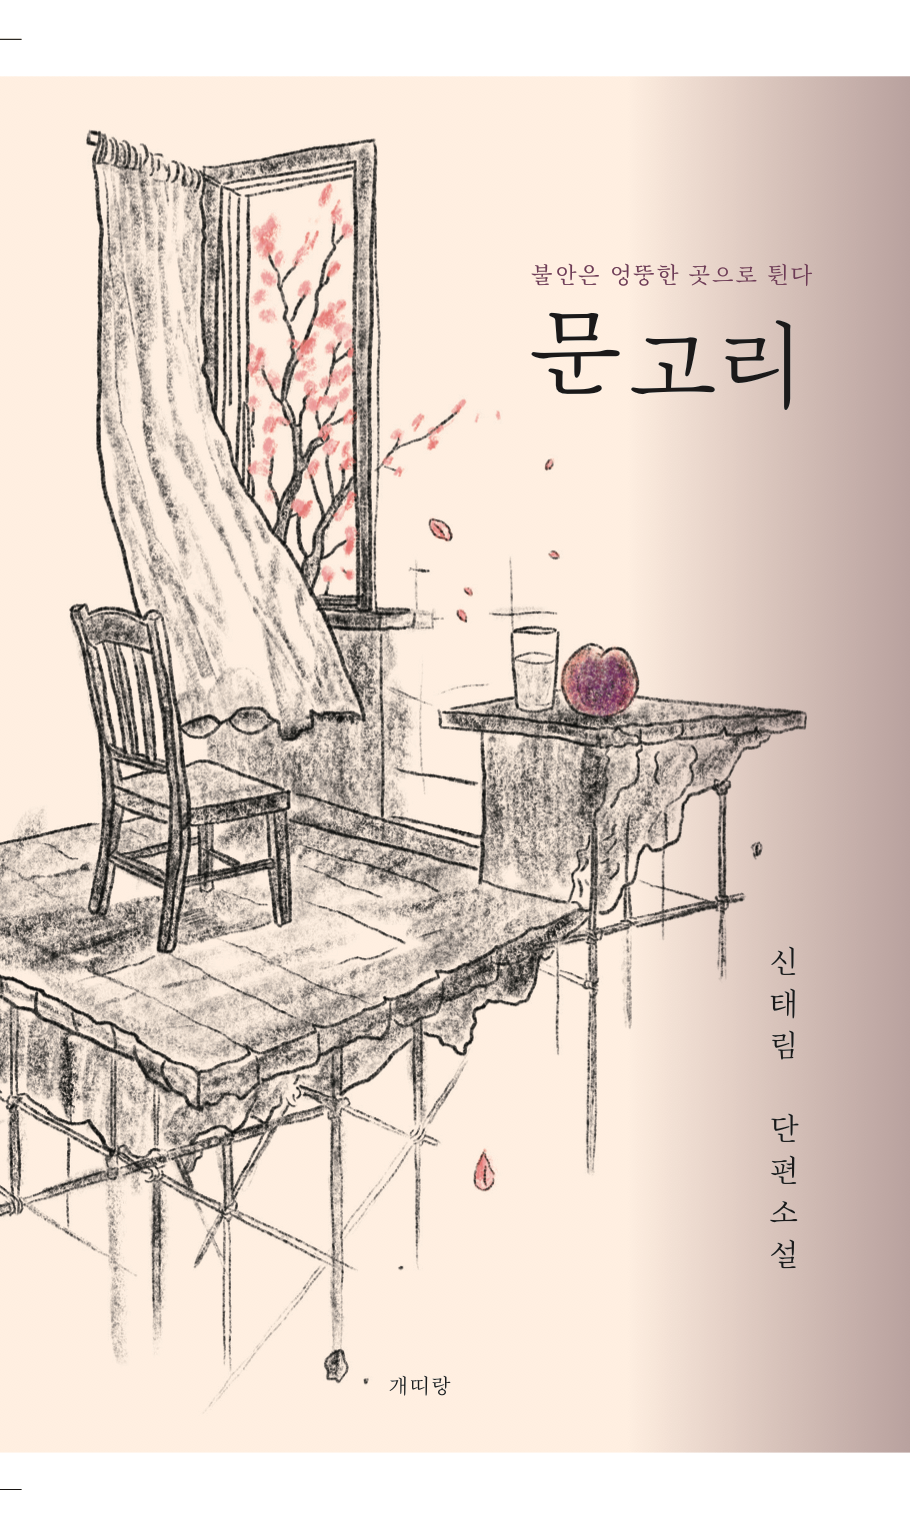
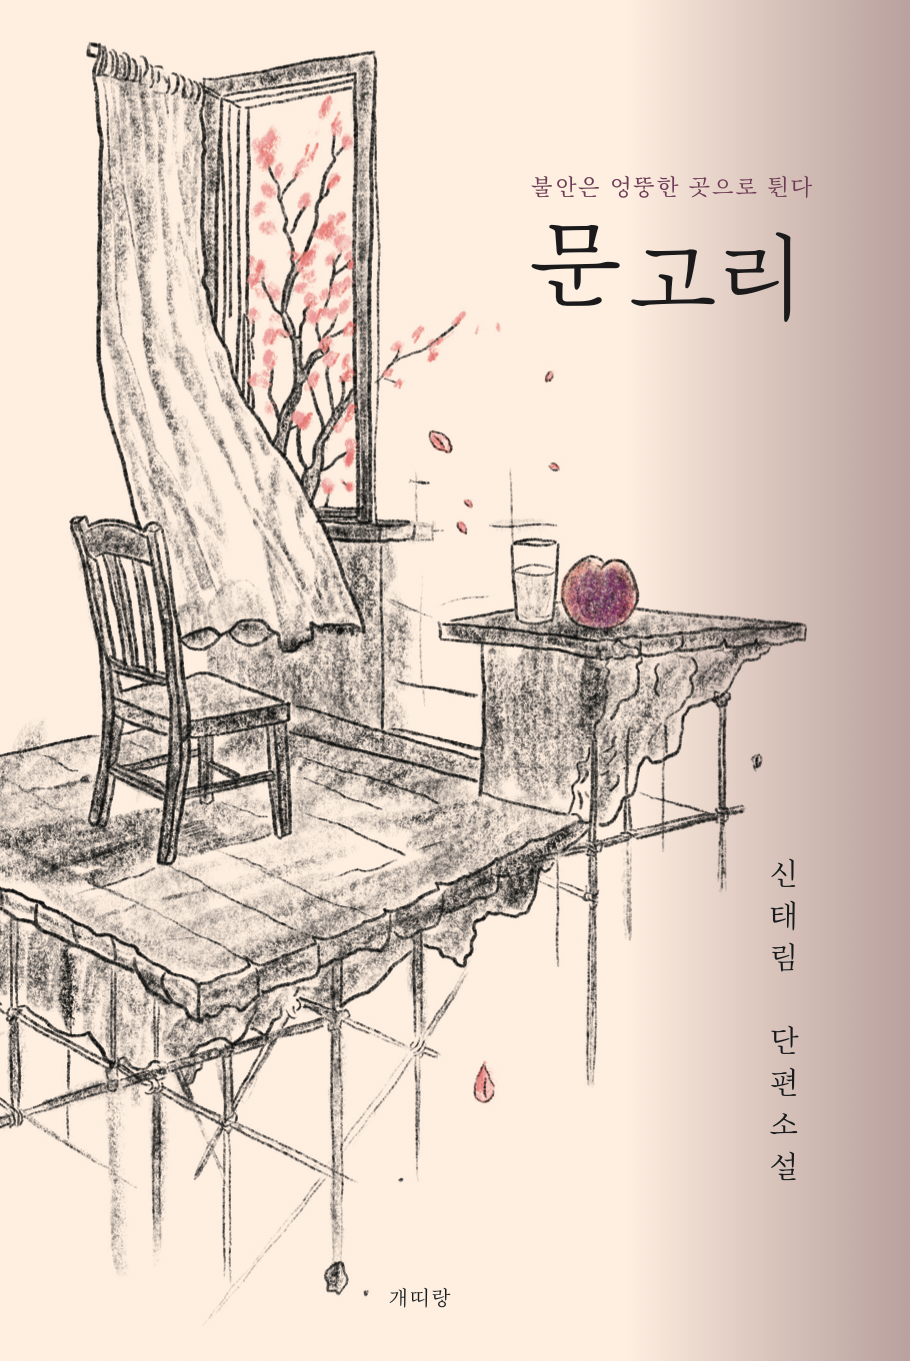
문고리 표지 이미지 상하 여백 제거 및 비율 재조정
크롭 마크 기준으로 확인한 실제 트림 라인(y=88~1449)에 맞춰
앞표지/뒤표지/책등 이미지의 위아래 흰 여백을 제거. 3D 책 모델
치수도 새 비율(약 0.67)에 맞게 재조정.

diff --git a/index.html b/index.html
@@ -169,16 +169,16 @@ flex-wrap: wrap;
 .mg-cta-btn { background: #F26D4F; color: #fff; font-weight: 800; font-size: 17px; padding: 16px 38px; border-radius: 50px; box-shadow: 0 8px 0 rgba(0,0,0,0.2); transition: 0.1s; }
 .mg-cta-btn:active { transform: translateY(8px); box-shadow: none; }
 
-.mg-book-stage { position: relative; z-index: 2; flex-shrink: 0; width: 340px; height: 500px; display: flex; align-items: center; justify-content: center; perspective: 1400px; }
-.mg-book-spin { position: relative; width: 280px; height: 467px; transform-style: preserve-3d; animation: mgSpin 9s linear infinite; }
-.mg-book-face { position: absolute; top: 0; left: 0; width: 280px; height: 467px; border-radius: 4px; box-shadow: 0 20px 60px rgba(0,0,0,0.4); backface-visibility: hidden; overflow: hidden; }
-.mg-face-front { transform: translateZ(14px); }
+.mg-book-stage { position: relative; z-index: 2; flex-shrink: 0; width: 360px; height: 480px; display: flex; align-items: center; justify-content: center; perspective: 1400px; }
+.mg-book-spin { position: relative; width: 300px; height: 445px; transform-style: preserve-3d; animation: mgSpin 9s linear infinite; }
+.mg-book-face { position: absolute; top: 0; left: 0; width: 300px; height: 445px; border-radius: 4px; box-shadow: 0 20px 60px rgba(0,0,0,0.4); backface-visibility: hidden; overflow: hidden; }
+.mg-face-front { transform: translateZ(15px); }
 .mg-face-front img, .mg-face-back img { width: 100%; height: 100%; object-fit: cover; display: block; }
-.mg-face-back { transform: rotateY(180deg) translateZ(14px); }
-.mg-face-spine-l, .mg-face-spine-r { width: 28px; height: 467px; left: 126px; }
+.mg-face-back { transform: rotateY(180deg) translateZ(15px); }
+.mg-face-spine-l, .mg-face-spine-r { width: 30px; height: 445px; left: 135px; }
 .mg-face-spine-l img, .mg-face-spine-r img { width: 100%; height: 100%; object-fit: cover; display: block; }
-.mg-face-spine-l { transform: rotateY(90deg) translateZ(140px); }
-.mg-face-spine-r { transform: rotateY(-90deg) translateZ(140px); }
+.mg-face-spine-l { transform: rotateY(90deg) translateZ(150px); }
+.mg-face-spine-r { transform: rotateY(-90deg) translateZ(150px); }
 @keyframes mgSpin { from { transform: rotateY(0deg); } to { transform: rotateY(360deg); } }
 
 @media (max-width: 900px) {
@@ -186,14 +186,14 @@ flex-wrap: wrap;
 .mg-content { max-width: 100%; }
 .mg-info-row { justify-content: center; }
 .mg-title { font-size: 56px; }
-.mg-book-stage { width: 235px; height: 360px; }
-.mg-book-spin { width: 195px; height: 325px; }
-.mg-book-face { width: 195px; height: 325px; }
-.mg-face-front { transform: translateZ(10px); }
-.mg-face-back { transform: rotateY(180deg) translateZ(10px); }
-.mg-face-spine-l { transform: rotateY(90deg) translateZ(98px); }
-.mg-face-spine-r { transform: rotateY(-90deg) translateZ(98px); }
-.mg-face-spine-l, .mg-face-spine-r { width: 20px; height: 325px; left: 88px; }
+.mg-book-stage { width: 256px; height: 355px; }
+.mg-book-spin { width: 216px; height: 320px; }
+.mg-book-face { width: 216px; height: 320px; }
+.mg-face-front { transform: translateZ(11px); }
+.mg-face-back { transform: rotateY(180deg) translateZ(11px); }
+.mg-face-spine-l { transform: rotateY(90deg) translateZ(108px); }
+.mg-face-spine-r { transform: rotateY(-90deg) translateZ(108px); }
+.mg-face-spine-l, .mg-face-spine-r { width: 22px; height: 320px; left: 97px; }
 }
 
 /* [NOTICE] */